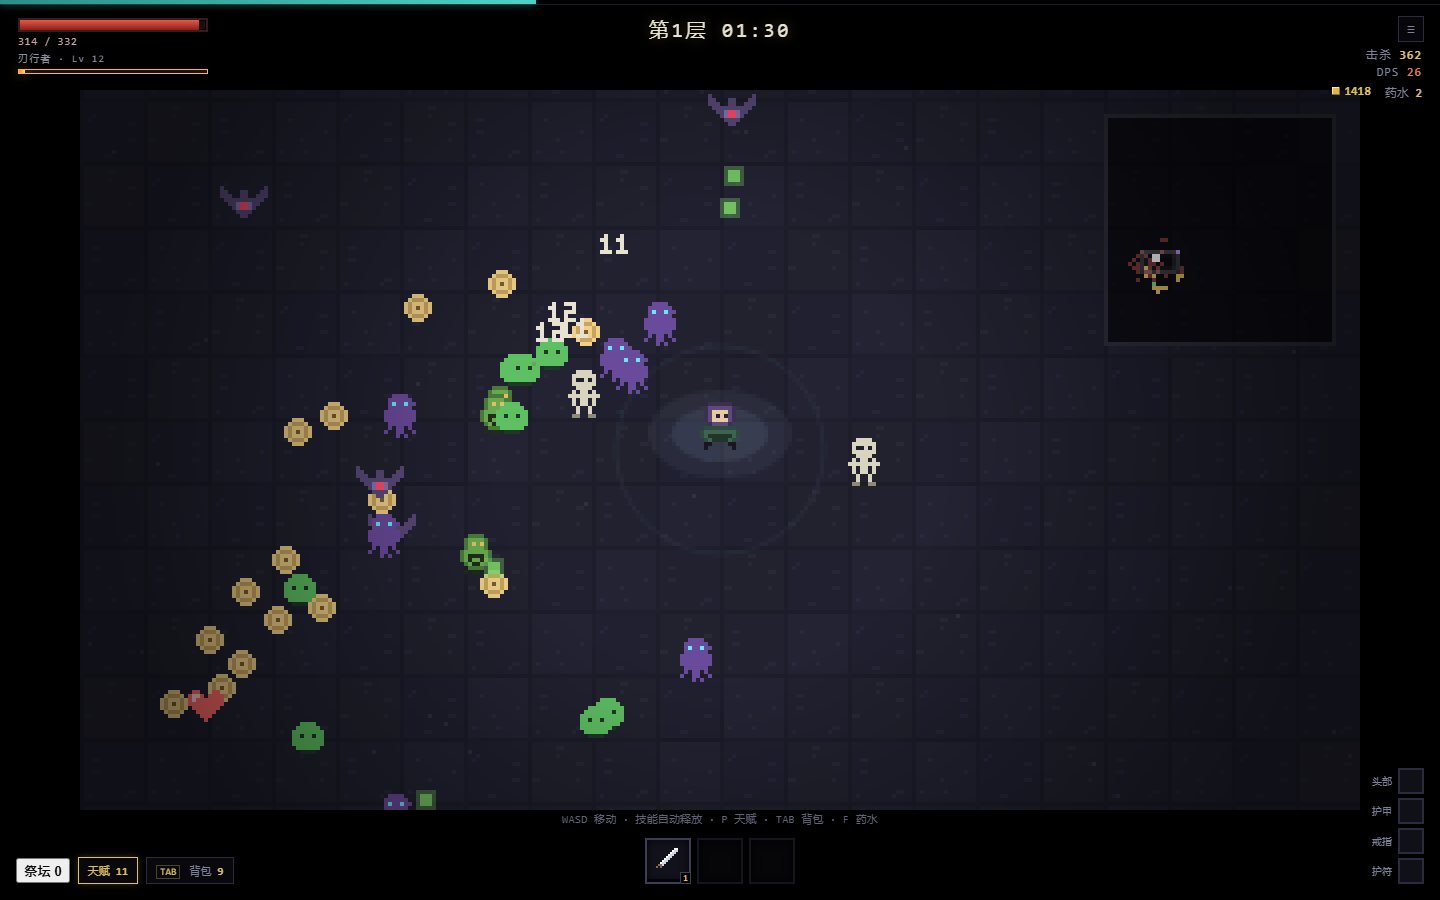
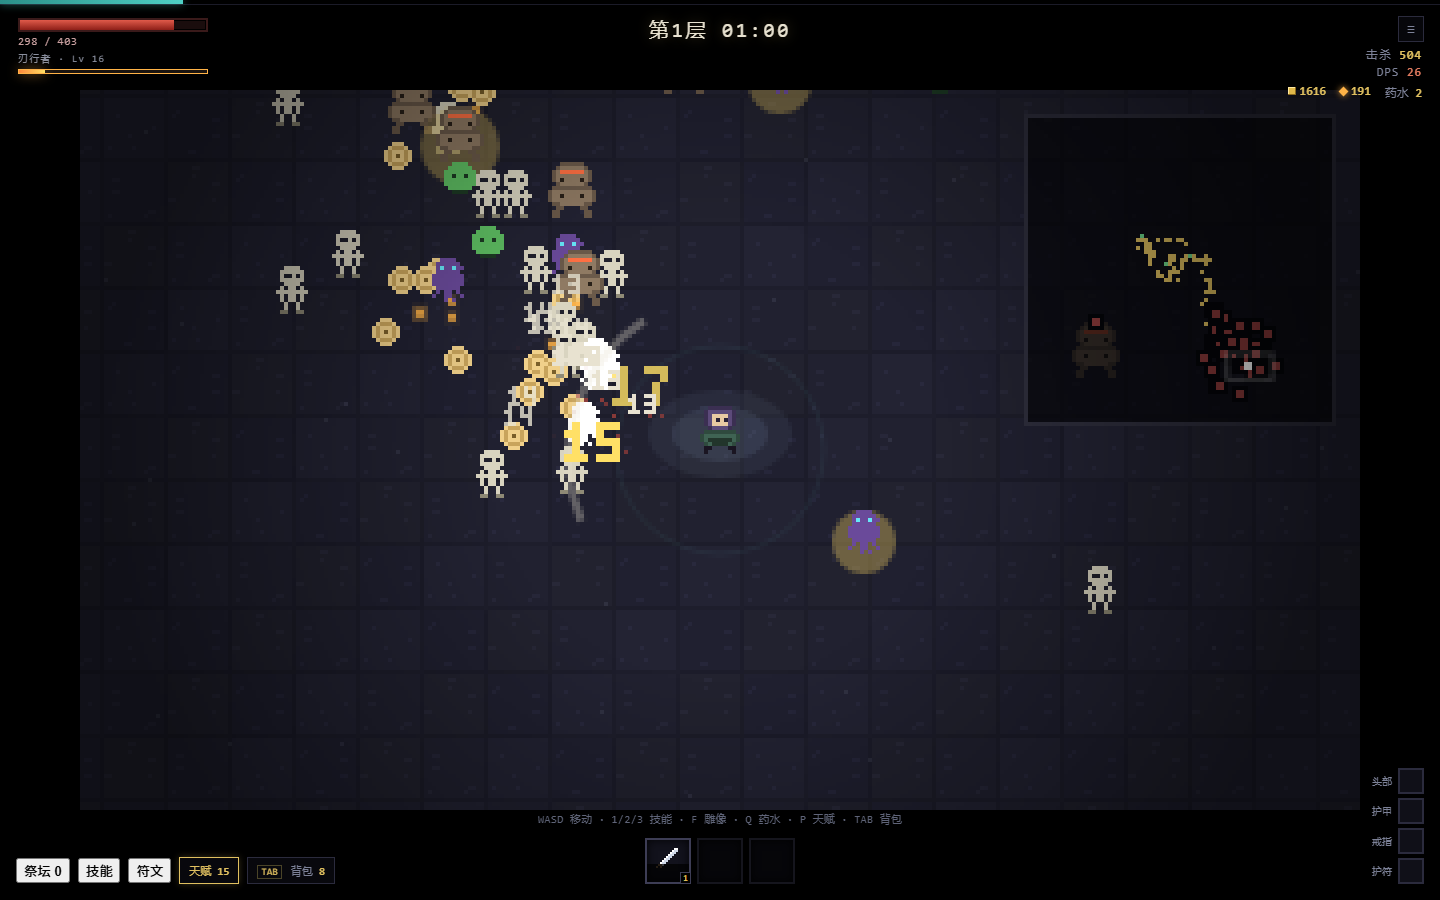
feat: 小地图放大 + 敌人按种类显示彩色图标
84→78px，敌人从 1 像素点改为 2-4px 彩色方块并加黑边
按 typeId 分色，精英/首领尺寸递增

diff --git a/js/render.js b/js/render.js
@@ -678,7 +678,7 @@
 
   function drawMinimap(st, time) {
     if (!minimapOn) return;
-    const M = 58, pad = 6;
+    const M = 78, pad = 6;
     const x0 = W - M - pad, y0 = pad;
     const isTown = st.phase === 'town';
     const worldW = isTown ? D.TOWN.w : CFG.worldSize;
@@ -709,17 +709,24 @@
       ctx.fillRect(Math.round(mx(pk.x)), Math.round(my(pk.y)), 1, 1);
     }
 
-    // 敌人
+    // 敌人：按种类上色的小图标
+    const MMC = {
+      slime: '#6fdc8f', bat: '#b07cff', skel: '#d9d4c0', wraith: '#8a5cff',
+      brute: '#c08a4a', spitter: '#4a9a3a', charger: '#ff8a3d',
+      splitter: '#6fdc8f', summoner: '#c0392b', healer: '#6fdc8f',
+      goblin: '#ffd54f', boss: '#ff4d6d', boss2: '#ffd54f', boss3: '#b07cff'
+    };
     for (let i = 0; i < st.enemies.length; i++) {
       const e = st.enemies[i];
       if (e.dead) continue;
-      if (e.boss) {
-        ctx.fillStyle = '#ff4d6d';
-        ctx.fillRect(mx(e.x) - 1, my(e.y) - 1, 3, 3);
-      } else {
-        ctx.fillStyle = e.elite ? '#b07cff' : '#7a3a3a';
-        ctx.fillRect(Math.round(mx(e.x)), Math.round(my(e.y)), 1, 1);
-      }
+      const ecol = MMC[e.typeId] || '#8a3a3a';
+      const esz = e.boss ? 4 : (e.elite ? 3 : 2);
+      const epx = Math.round(mx(e.x)) - (esz >> 1);
+      const epy = Math.round(my(e.y)) - (esz >> 1);
+      ctx.fillStyle = '#05060a';
+      ctx.fillRect(epx - 1, epy - 1, esz + 2, esz + 2);
+      ctx.fillStyle = ecol;
+      ctx.fillRect(epx, epy, esz, esz);
     }
 
     // 队友

diff --git a/CHANGELOG.md b/CHANGELOG.md
@@ -2,6 +2,13 @@
 
 本项目从零开始，逐轮迭代。下面按实际完成的顺序记录，方便回溯每个版本改变了什么。
 
+## 1.19.0 — 小地图重做
+
+- 小地图从 58px 放大到 **78px**
+- 敌人不再是 1 像素暗红点，改为**按种类上色的小图标**（史莱姆绿 / 蝙蝠紫 / 骷髅白 / 幽魂靛 / 蛮兽棕 / 吐者深绿 / 冲锋者橙 / 变体红 / 哥布林金 / 首领亮红）
+- 图标带黑色描边，精英 3px、普通 2px、首领 4px，在密集刷怪时也能一眼分类型
+- 掉落仍然按稀有度上色，视野框保留
+
 ## 1.18.0 — 修复与首领血条
 
 - **修复回收/丢弃按钮无效**：按钮原先嵌在可点击的装备行里，事件目标被整行吃掉，点击实际触发的是「装备」。改为独立一行 + 内联 `onclick` + `stopPropagation`
